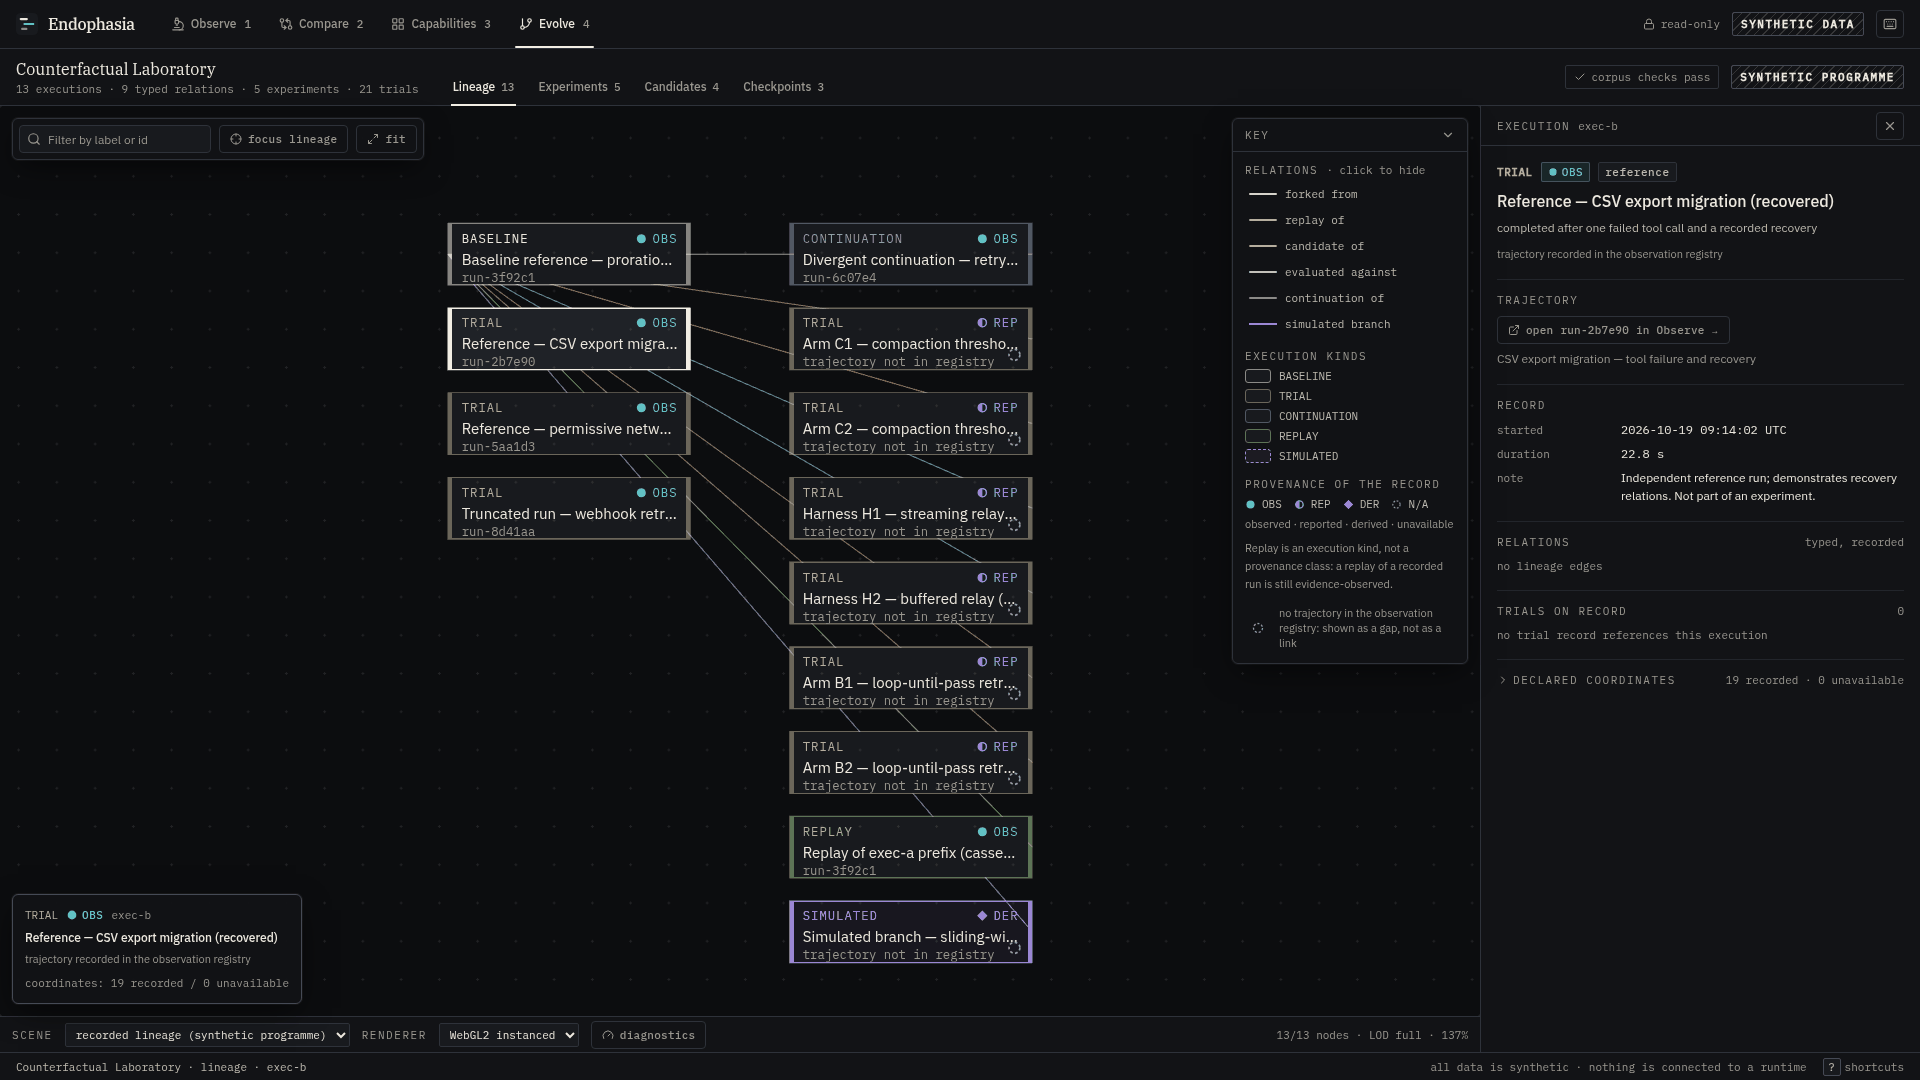
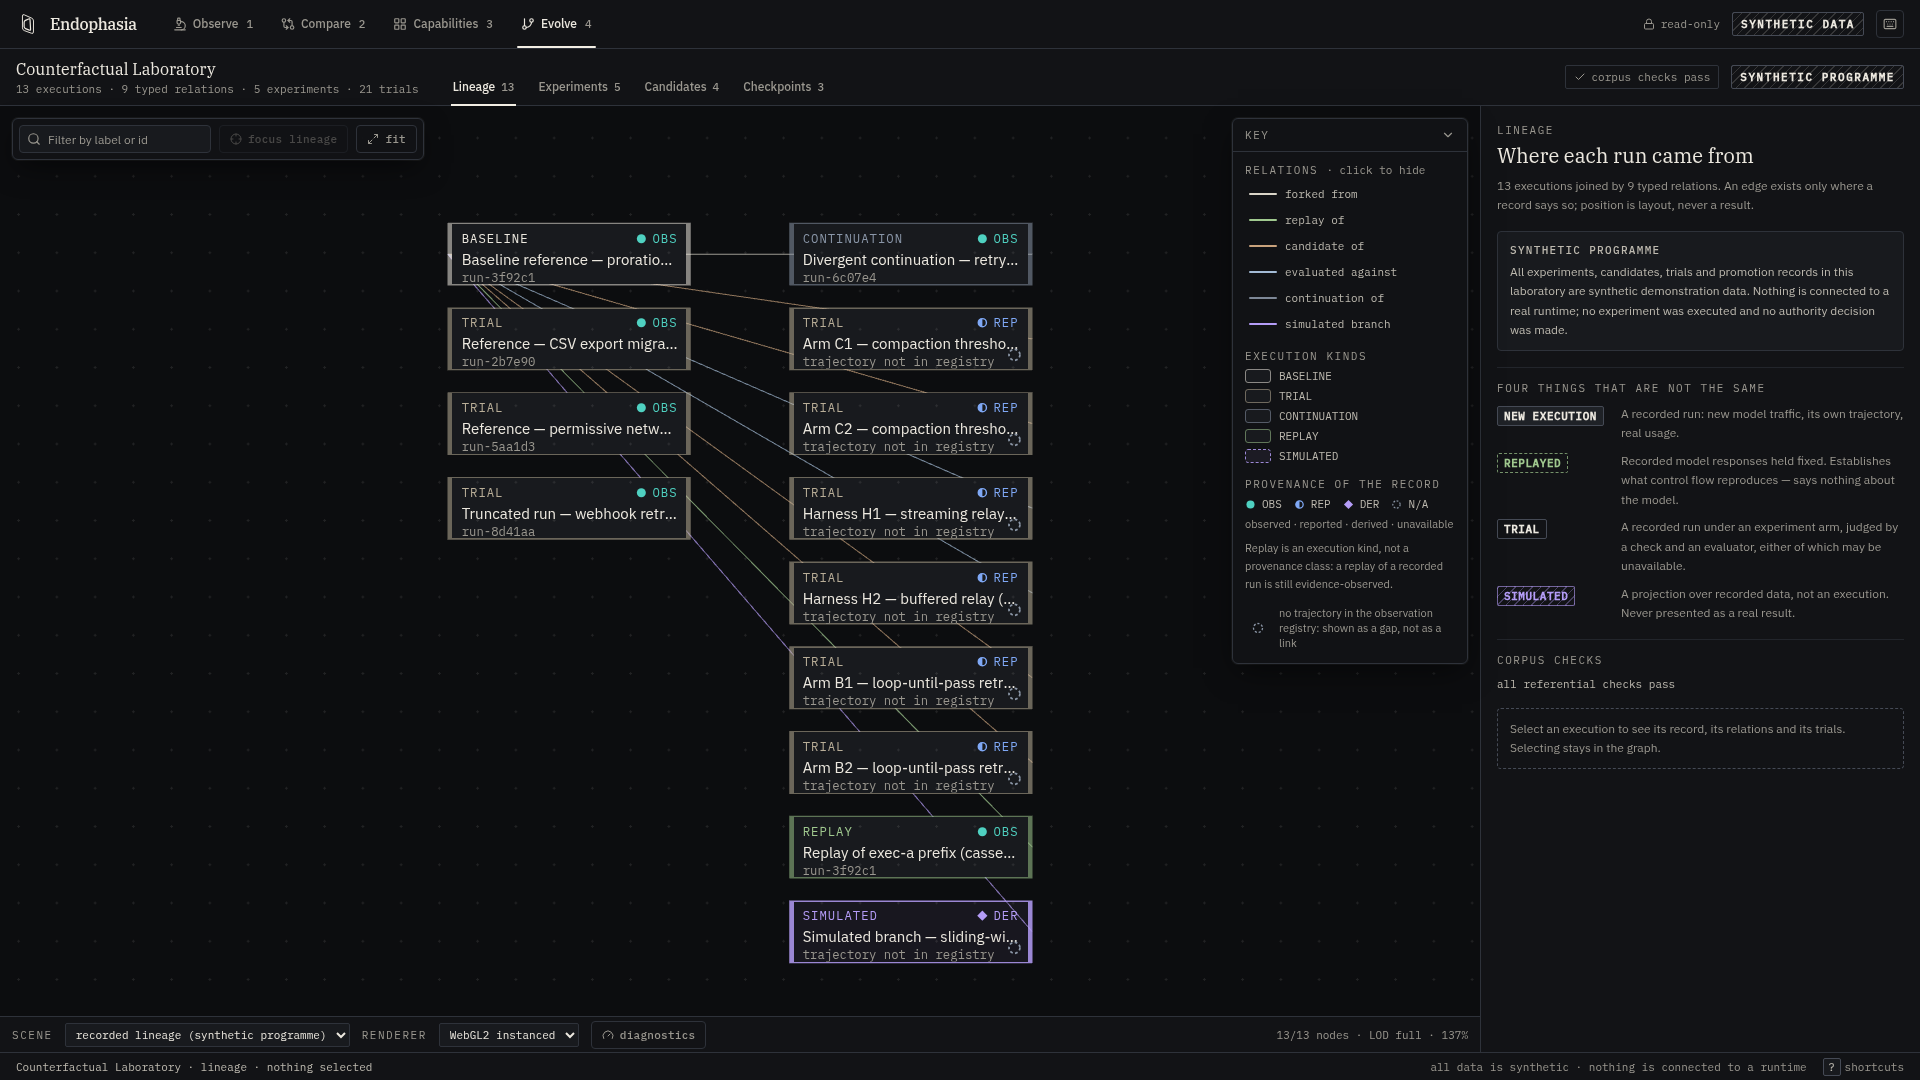
Browser tests for the review findings; prod-dependency audit in CI; docs and screenshots refreshed
- e2e: exact one-hop filter set, WebGL overlay parity, scene-switch state, selected-projection style, measurement reset on backend switch.
- CI: npm audit --omit=dev --audit-level=high (the remaining advisories are dev-only Tailwind 3 tooling).
- README counts (312 tests, 18 files), design-direction notes, screenshots regenerated with the new mark and glyphs.

Claude-Session: https://claude.ai/code/session_01N7tQHWVQT4f35UQYAdjDVr

diff --git a/e2e/lineage.e2e.ts b/e2e/lineage.e2e.ts
@@ -92,13 +92,14 @@ test.describe('SVG backend (independent of WebGL2)', () => {
     await expect(status(page)).toContainText('nothing selected');
   });
 
-  test('the text filter dims what does not match (and nothing is removed), and clears when emptied', async ({ page }) => {
+  test('the text filter dims everything except the matches and their direct neighbours (exactly), and clears when emptied', async ({ page }) => {
+    // "replay" matches exec-replay1 only; its one neighbour is the baseline exec-a. 13 nodes - 2 = 11 dimmed, none removed.
     await page.getByLabel('Filter nodes').fill('replay');
-    await expect.poll(() => dimmedGroups(page).count()).toBeGreaterThan(0);
-    expect(await dimmedGroups(page).count()).toBeLessThan(13);
+    await expect(dimmedGroups(page)).toHaveCount(11);
     await expect(nodeGroups(page)).toHaveCount(13);
-    const label = await page.getByText(/\d+\/13 nodes/).innerText();
-    expect(label).not.toContain('13/13');
+    const kept = await page.locator('[role="application"] svg [data-node-id]:not([opacity="0.25"])').evaluateAll((els) => els.map((e) => e.getAttribute('data-node-id')).sort());
+    expect(kept).toEqual(['exec-a', 'exec-replay1']);
+    await expect(page.getByText(/2\/13 nodes/)).toBeVisible();
     await page.getByLabel('Filter nodes').fill('');
     await expect(dimmedGroups(page)).toHaveCount(0);
   });
@@ -131,6 +132,43 @@ test.describe('SVG backend (independent of WebGL2)', () => {
     await expect(inspector(page).getByRole('heading', { name: 'Baseline reference — proration fix' })).toBeVisible();
     await expect(page.getByTestId('lineage-explorer')).toBeVisible();
     await expect(nodeGroups(page)).toHaveCount(13);
+  });
+});
+
+test.describe('SVG backend: state across scene switches, and what selection does not erase', () => {
+  test.beforeEach(async ({ page }) => { await goEvolve(page); await useBackend(page, 'svg-dom'); });
+
+  test('a scene switch does not leave the old scene\'s selection or focus behind', async ({ page }) => {
+    const p = await centre(page.locator('[role="application"] svg [data-node-id="exec-a"]'));
+    await page.mouse.click(p.x, p.y);
+    await expect(status(page)).toContainText('lineage · exec-a');
+    await viewport(page).focus();
+    await page.keyboard.press('f');
+    await expect.poll(() => dimmedGroups(page).count()).toBeGreaterThan(0);
+    const scene = page.getByLabel('Scene', { exact: true });
+    const stress = await scene.locator('option', { hasText: '100 nodes' }).getAttribute('value');
+    await scene.selectOption(stress!);
+    await expect(nodeGroups(page)).toHaveCount(100);
+    await expect(status(page)).toContainText('nothing selected');
+    await expect(inspector(page).getByText('exec-a', { exact: true })).toHaveCount(0);
+    await expect(dimmedGroups(page)).toHaveCount(0);
+    await expect(page.getByRole('button', { name: 'focus lineage' })).toHaveAttribute('aria-pressed', 'false');
+  });
+
+  test('a selected simulated projection stays hollow and dashed; a selected trial does not', async ({ page }) => {
+    const sim = page.locator('[role="application"] svg [data-node-id="exec-sim1"]');
+    let p = await centre(sim);
+    await page.mouse.click(p.x, p.y);
+    await expect(status(page)).toContainText('lineage · exec-sim1');
+    const bg = sim.locator('rect').first();
+    await expect(bg).toHaveAttribute('stroke-dasharray', /\d/);
+    expect(Number(await bg.getAttribute('fill-opacity'))).toBeLessThan(0.2);
+    const trial = page.locator('[role="application"] svg [data-node-id="exec-r1"]');
+    p = await centre(trial);
+    await page.mouse.click(p.x, p.y);
+    const tbg = trial.locator('rect').first();
+    expect(await tbg.getAttribute('stroke-dasharray')).toBeNull();
+    expect(Number(await tbg.getAttribute('fill-opacity'))).toBe(1);
   });
 });
 
@@ -259,5 +297,26 @@ test.describe('WebGL2 backend (software-rendered here: correctness, never hardwa
     const recorded = await scene.locator('option', { hasText: 'recorded lineage' }).getAttribute('value');
     await scene.selectOption(recorded!);
     await expect.poll(async () => (await canvasPixels(page, GRAPH_CROP)).energy).toBe(before.energy);
+  });
+
+  test('under the filter every text card stays, dimmed, exactly as the SVG backend dims its nodes', async ({ page }) => {
+    await page.getByLabel('Filter nodes').fill('replay');
+    await expect.poll(async () => page.locator('[data-overlay-node]').evaluateAll((els) => els.filter((e) => getComputedStyle(e).opacity === '0.15').length)).toBe(11);
+    await expect(page.locator('[data-overlay-node]')).toHaveCount(13);
+    const full = await page.locator('[data-overlay-node]').evaluateAll((els) => els.filter((e) => getComputedStyle(e).opacity === '1').map((e) => e.getAttribute('data-overlay-node')).sort());
+    expect(full).toEqual(['exec-a', 'exec-replay1']);
+  });
+
+  test('measured figures do not survive a switch of backend, and each block names the backend that produced it', async ({ page }) => {
+    test.setTimeout(120_000);
+    await page.getByRole('button', { name: 'diagnostics' }).click();
+    await page.getByRole('button', { name: /run measurement pass/ }).click();
+    const panel = page.getByRole('complementary', { name: 'Rendering diagnostics' });
+    await expect(panel.getByText(/webgl2-instanced/).first()).toBeVisible({ timeout: 90_000 });
+    await expect(panel.getByText(/scene build \(corpus → scene\):/)).toBeVisible();
+    await expect(panel.getByText(/scene generation \(synthetic fixture\):/).first()).toBeVisible();
+    await useBackend(page, 'svg-dom');
+    await expect(panel.getByText(/No measurements recorded yet/)).toBeVisible();
+    await expect(panel.getByText(/webgl2-instanced \(/)).toHaveCount(0);
   });
 });

diff --git a/README.md b/README.md
@@ -106,7 +106,7 @@ The fixture layer is deliberately separated from the domain types: a future impl
 npm ci                 # the lockfile is committed; Node ^22.22.2 (see .nvmrc and package.json "engines")
 npm run typecheck      # tsc --noEmit for the app and for e2e/
 npm run lint           # eslint: no errors, no warnings
-npm test               # 284 tests, 16 files (see below)
+npm test               # 312 tests, 18 files (see below)
 npm run build          # production build
 npm run audit:classes  # after a build: fails if a colour/shadow utility used in
                        # src/ generated no CSS (Tailwind drops unknown classes silently)
@@ -117,9 +117,9 @@ npm run test:e2e       # builds, serves it with `vite preview`, and runs the Pla
 `.github/workflows/ci.yml` runs all of these on every pull request and push to `main`: one job for the first six, one for the
 browser suite (with `E2E_REQUIRE_WEBGL=1`, so the job fails rather than skipping the WebGL tests if WebGL2 cannot initialise).
 
-The Vitest suite checks the epistemic rules directly: every session passes structural validation, no session presents missing usage as present, alignment is deterministic (exact matches are never conflated with proposed correspondences, and different event kinds are never paired), checkpoint forkability and comparability verdicts are derived, and the Wilson tick lies inside its interval for every arm cell. It also pins the design system: every informational colour clears a 4.5:1 contrast floor, the lineage relation and execution-kind colours stay perceptually distinguishable (OKLab ΔE ≥ 0.08), the renderer palette and Tailwind read the same tokens, and a simulated projection can never share a node style with a trial or a baseline. Application-level tests drive the real app: workspace keys, the synthetic marker in every workspace, `j`/`k` over a filtered list, and what the Compare and Capabilities inspectors decline to claim. The measurement harness is held to the same standard: scene construction is timed only when the operation provably builds the displayed scene.
+The Vitest suite checks the epistemic rules directly: every session passes structural validation, no session presents missing usage as present, alignment is deterministic (exact matches are never conflated with proposed correspondences, and different event kinds are never paired), checkpoint forkability and comparability verdicts are derived, and the Wilson tick lies inside its interval for every arm cell. It also pins the design system: every informational colour clears a 4.5:1 contrast floor, the lineage relation and execution-kind colours stay perceptually distinguishable (OKLab ΔE ≥ 0.08), the renderer palette and Tailwind read the same tokens, and a simulated projection can never share a node style with a trial or a baseline. Application-level tests drive the real app: workspace keys, the synthetic marker in every workspace, `j`/`k` over a filtered list, and what the Compare and Capabilities inspectors decline to claim. The measurement harness is held to the same standard: scene construction is timed only when the operation provably builds the displayed scene, and a pass's figures are discarded when the renderer or scene changes. Interaction rules are pinned exactly (a text filter keeps its matches and their one-hop neighbours, nothing more), and a scene switch cannot leave a stale selection or focus behind.
 
-The browser suite (`e2e/`) asserts what a jsdom test cannot: that the SVG backend really attaches and draws one group per node and one path per edge; that clicking the centre of each node selects exactly that node (hit-testing agrees with the drawing); that pan, zoom and fit move the camera; that the filter and relation toggles change what is drawn; that switching renderer keeps the selection and puts the same node in the same place; that WebGL2, where it initialises, really renders (judged from a composited screenshot, never a post-present buffer readback) and recovers from a lost context; that every workspace fits at 1280×800, 1440×900, 1920×1080 and 1024×768; and that the narrow-screen inspector is a real modal (focus in, Tab trapped, page inert, Escape and focus return). Every test also fails on any console error, failed request, or request that leaves the origin. The SVG tests pass with or without WebGL2. On failure it keeps screenshots and traces.
+The browser suite (`e2e/`) asserts what a jsdom test cannot: that the SVG backend really attaches and draws one group per node and one path per edge; that clicking the centre of each node selects exactly that node (hit-testing agrees with the drawing); that pan, zoom and fit move the camera; that the filter (to the exact node set) and relation toggles change what is drawn, in both backends; that switching renderer keeps the selection and puts the same node in the same place; that WebGL2, where it initialises, really renders (judged from a composited screenshot, never a post-present buffer readback) and recovers from a lost context; that every workspace fits at 1280×800, 1440×900, 1920×1080 and 1024×768; and that the narrow-screen inspector is a real modal (focus in, Tab trapped, page inert, Escape and focus return). Every test also fails on any console error, failed request, or request that leaves the origin. The SVG tests pass with or without WebGL2. On failure it keeps screenshots and traces.
 
 ## Design decisions
 

diff --git a/docs/design-direction.md b/docs/design-direction.md
@@ -19,7 +19,7 @@ Colour is a scarce resource.
 | **Hue: attention / fault** | amber = degraded, partial, differs; red = error, mismatch, rejection | success |
 | **Hue: structure (lineage graph only)** | sage = replay; violet = simulated projection (the scene marks it derived); neutral greys for the other relations | evidence |
 | **Texture** | solid = recorded, dashed = proposed, hatched = simulated or synthetic, hollow = unavailable | meaning that hue already says |
-| **Shape** | every provenance class has its own: ● ◐ ◆ ◌ | |
+| **Shape** | every provenance class has its own: ● ◐ ◆ ◌. Capability status and source condition use a separate SQUARE family (plus a triangle for mismatch), so a status mark can never be read as an evidence class | |
 | **Position** | category (swimlanes), storage order, side (A / B) | |
 | **Ivory (neutral)** | selection and focus — never a hue, so selecting something never changes what it looks like | |
 
@@ -31,6 +31,7 @@ Colour is a scarce resource.
 - A simulated projection is hatched and hollow, never the weight or colour of a trial.
 - `SYNTHETIC DATA` is a hatched neutral tag — texture, not an evidence hue.
 - A "declared" or "observed" mark is drawn only when evidence of that class backs it.
+- Selection never erases what a node is: a selected simulated projection keeps its hollow tinted fill and dashed outline. Ivory is also kept off promotion state: an authorised or promoted gate is not ivory, because ivory means "selected".
 - Pass rates are intervals with the denominator beside them; a missing result is hatched, never an empty bar.
 
 ## Constraints from the renderers
